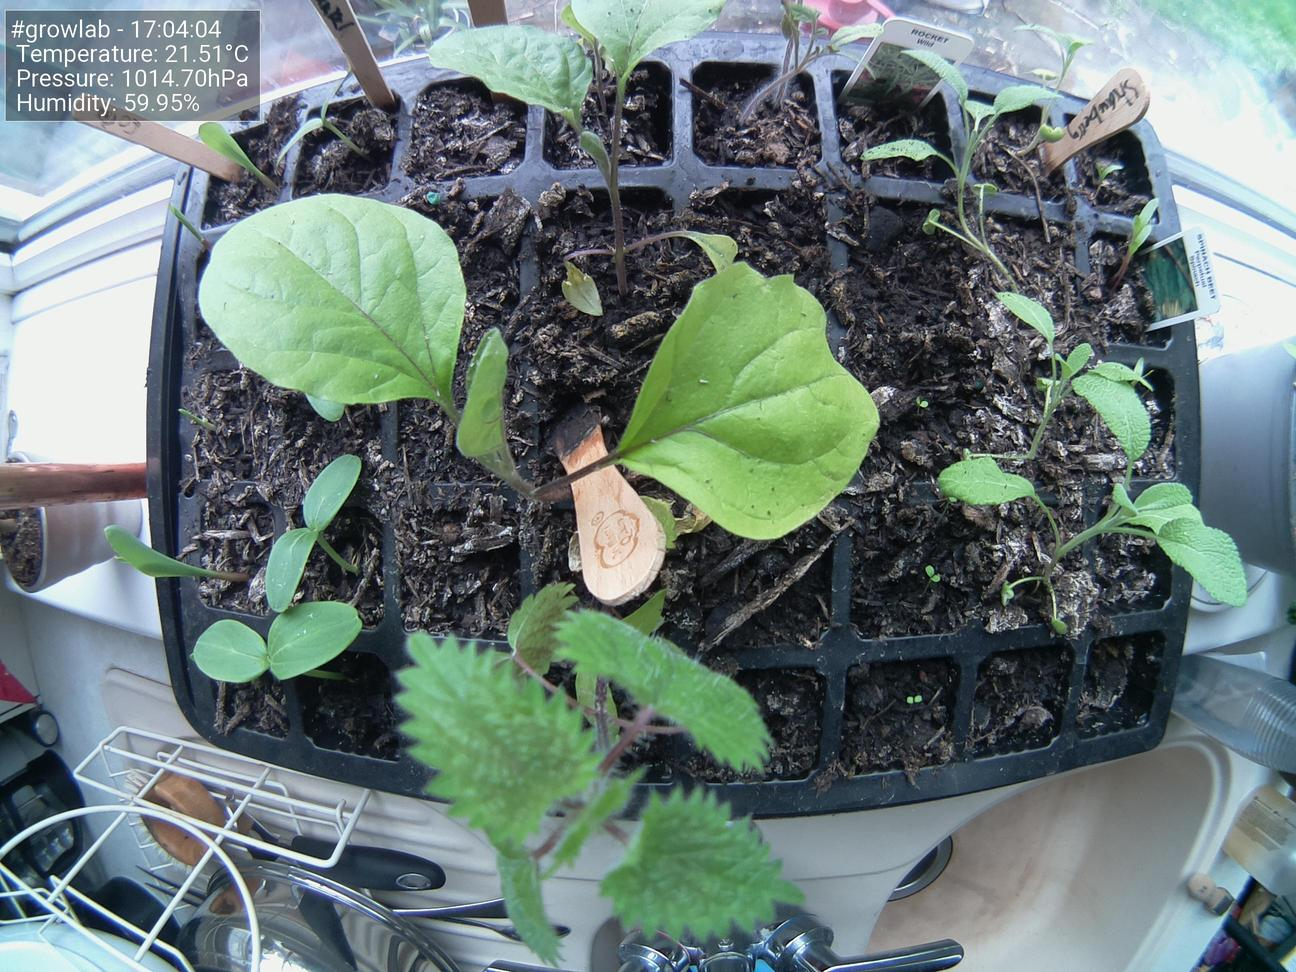
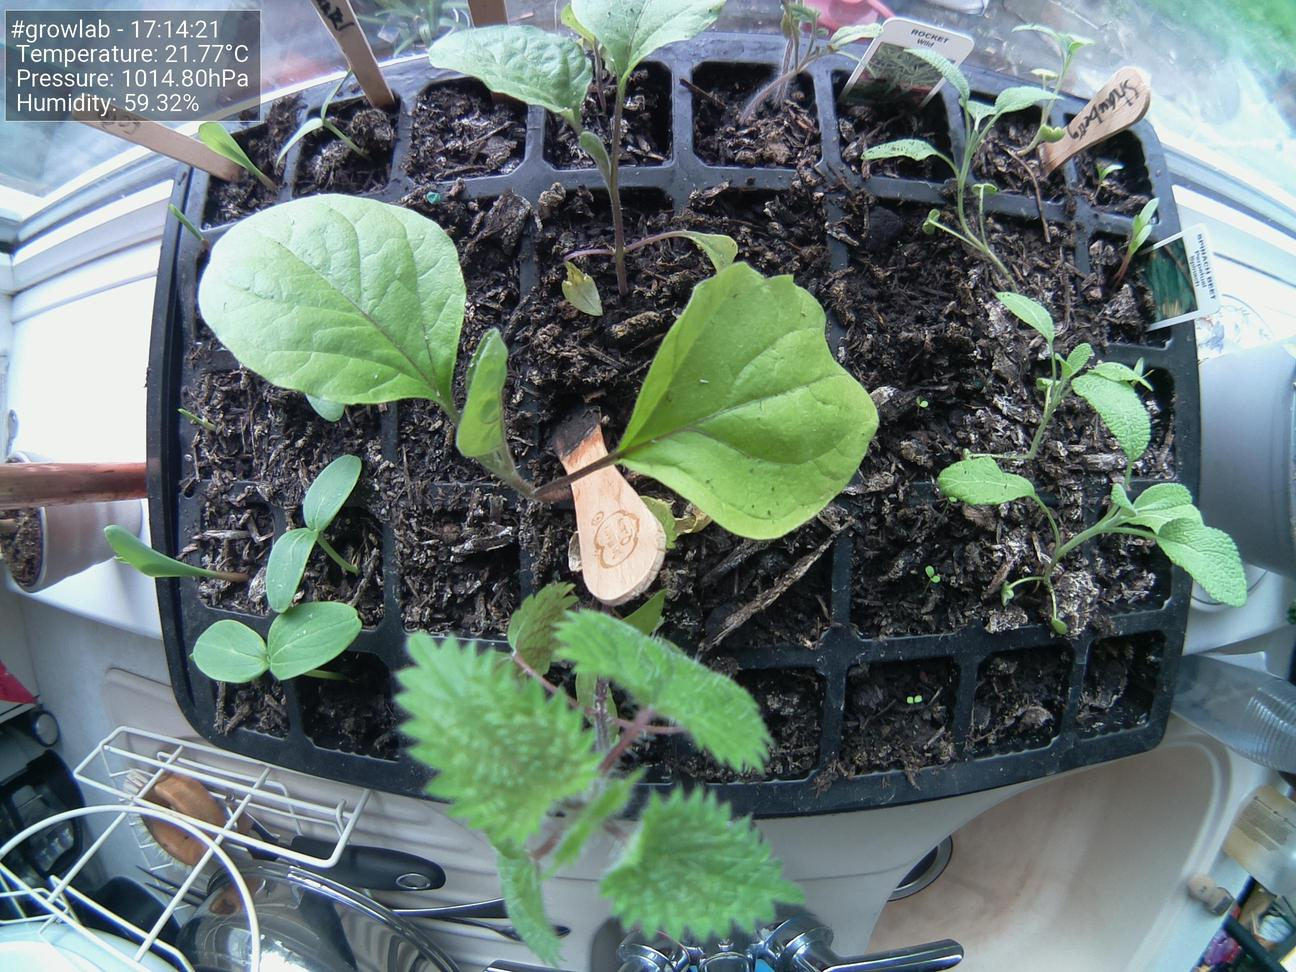
Update images at Wed 26 May 17:14:30 BST 2021

diff --git a/docs/index.html b/docs/index.html
@@ -47,19 +47,19 @@
                         <tbody>
                             <tr>
                                 <td>Time</td>
-                                <td>17:04:04</td>
+                                <td>17:14:21</td>
                             </tr>
                             <tr>
                                 <td>Temperature</td>
-                                <td>21.51°C</td>
+                                <td>21.77°C</td>
                             </tr>
                             <tr>
                                 <td>Humidity</td>
-                                <td>59.95%</td>
+                                <td>59.32%</td>
                             </tr>
                             <tr>
                                 <td>Pressure</td>
-                                <td>1014.70hPa</td>
+                                <td>1014.80hPa</td>
                             </tr>
                         </tbody>
                     </table>
@@ -67,7 +67,7 @@
 
                 <h5>Latest image</h5>
                 <div style="width: 85%;">
-                            <img class="figure-img img-fluid rounded" src="./preview.jpg?uid=1622045052.9836466">
+                            <img class="figure-img img-fluid rounded" src="./preview.jpg?uid=1622045670.370791">
                 </div>
             </div>
         </div>
